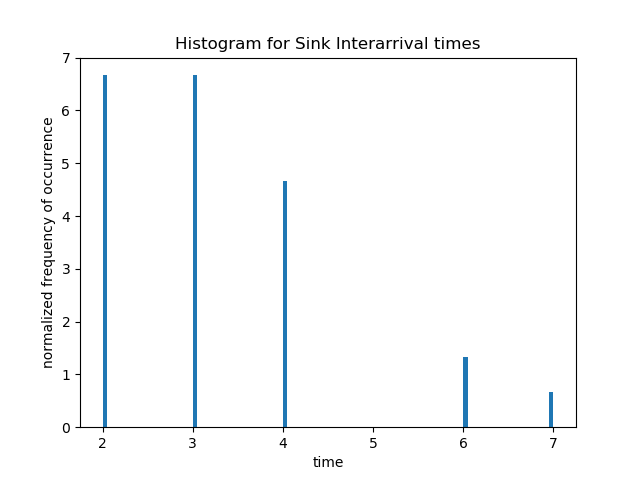
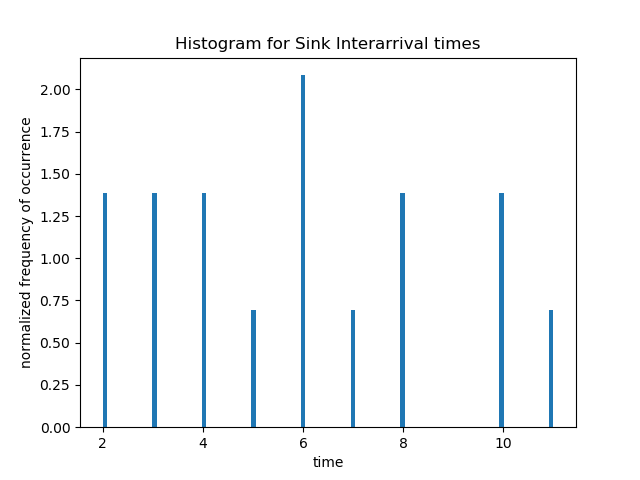
SimComponent comment 추가 (198)

diff --git a/MM1.py b/MM1.py
@@ -15,7 +15,7 @@ if __name__ == '__main__':
     # Using Python functools to create callable functions for random variates with fixed parameters
     # each call to these will produce a new random value
 
-    adist = functools.partial(random.randrange, 1,5) # arrival distribution
+    adist = functools.partial(random.randrange, 1,10) # arrival distribution
     #sdist = functools.partial(random.expovariate, 0.1)  # successive sizes of packets
     sdist = functools.partial(random.randint, 1,1)
     samp_dist = functools.partial(random.expovariate, 1)

diff --git a/SimComponents.py b/SimComponents.py
@@ -195,6 +195,7 @@ class SwitchPort(object):
             if self.out.name != 'Sink':
                 #print(self.name, self.out.qlimit, len(self.out.store.itmes), ' at ', self.env.now)
                 print(self.name, self.out.qlimit, ' at ', self.env.now)
+            #wait until something changed...
             self.out.put(msg)
             self.busy = 0
             if self.debug:
